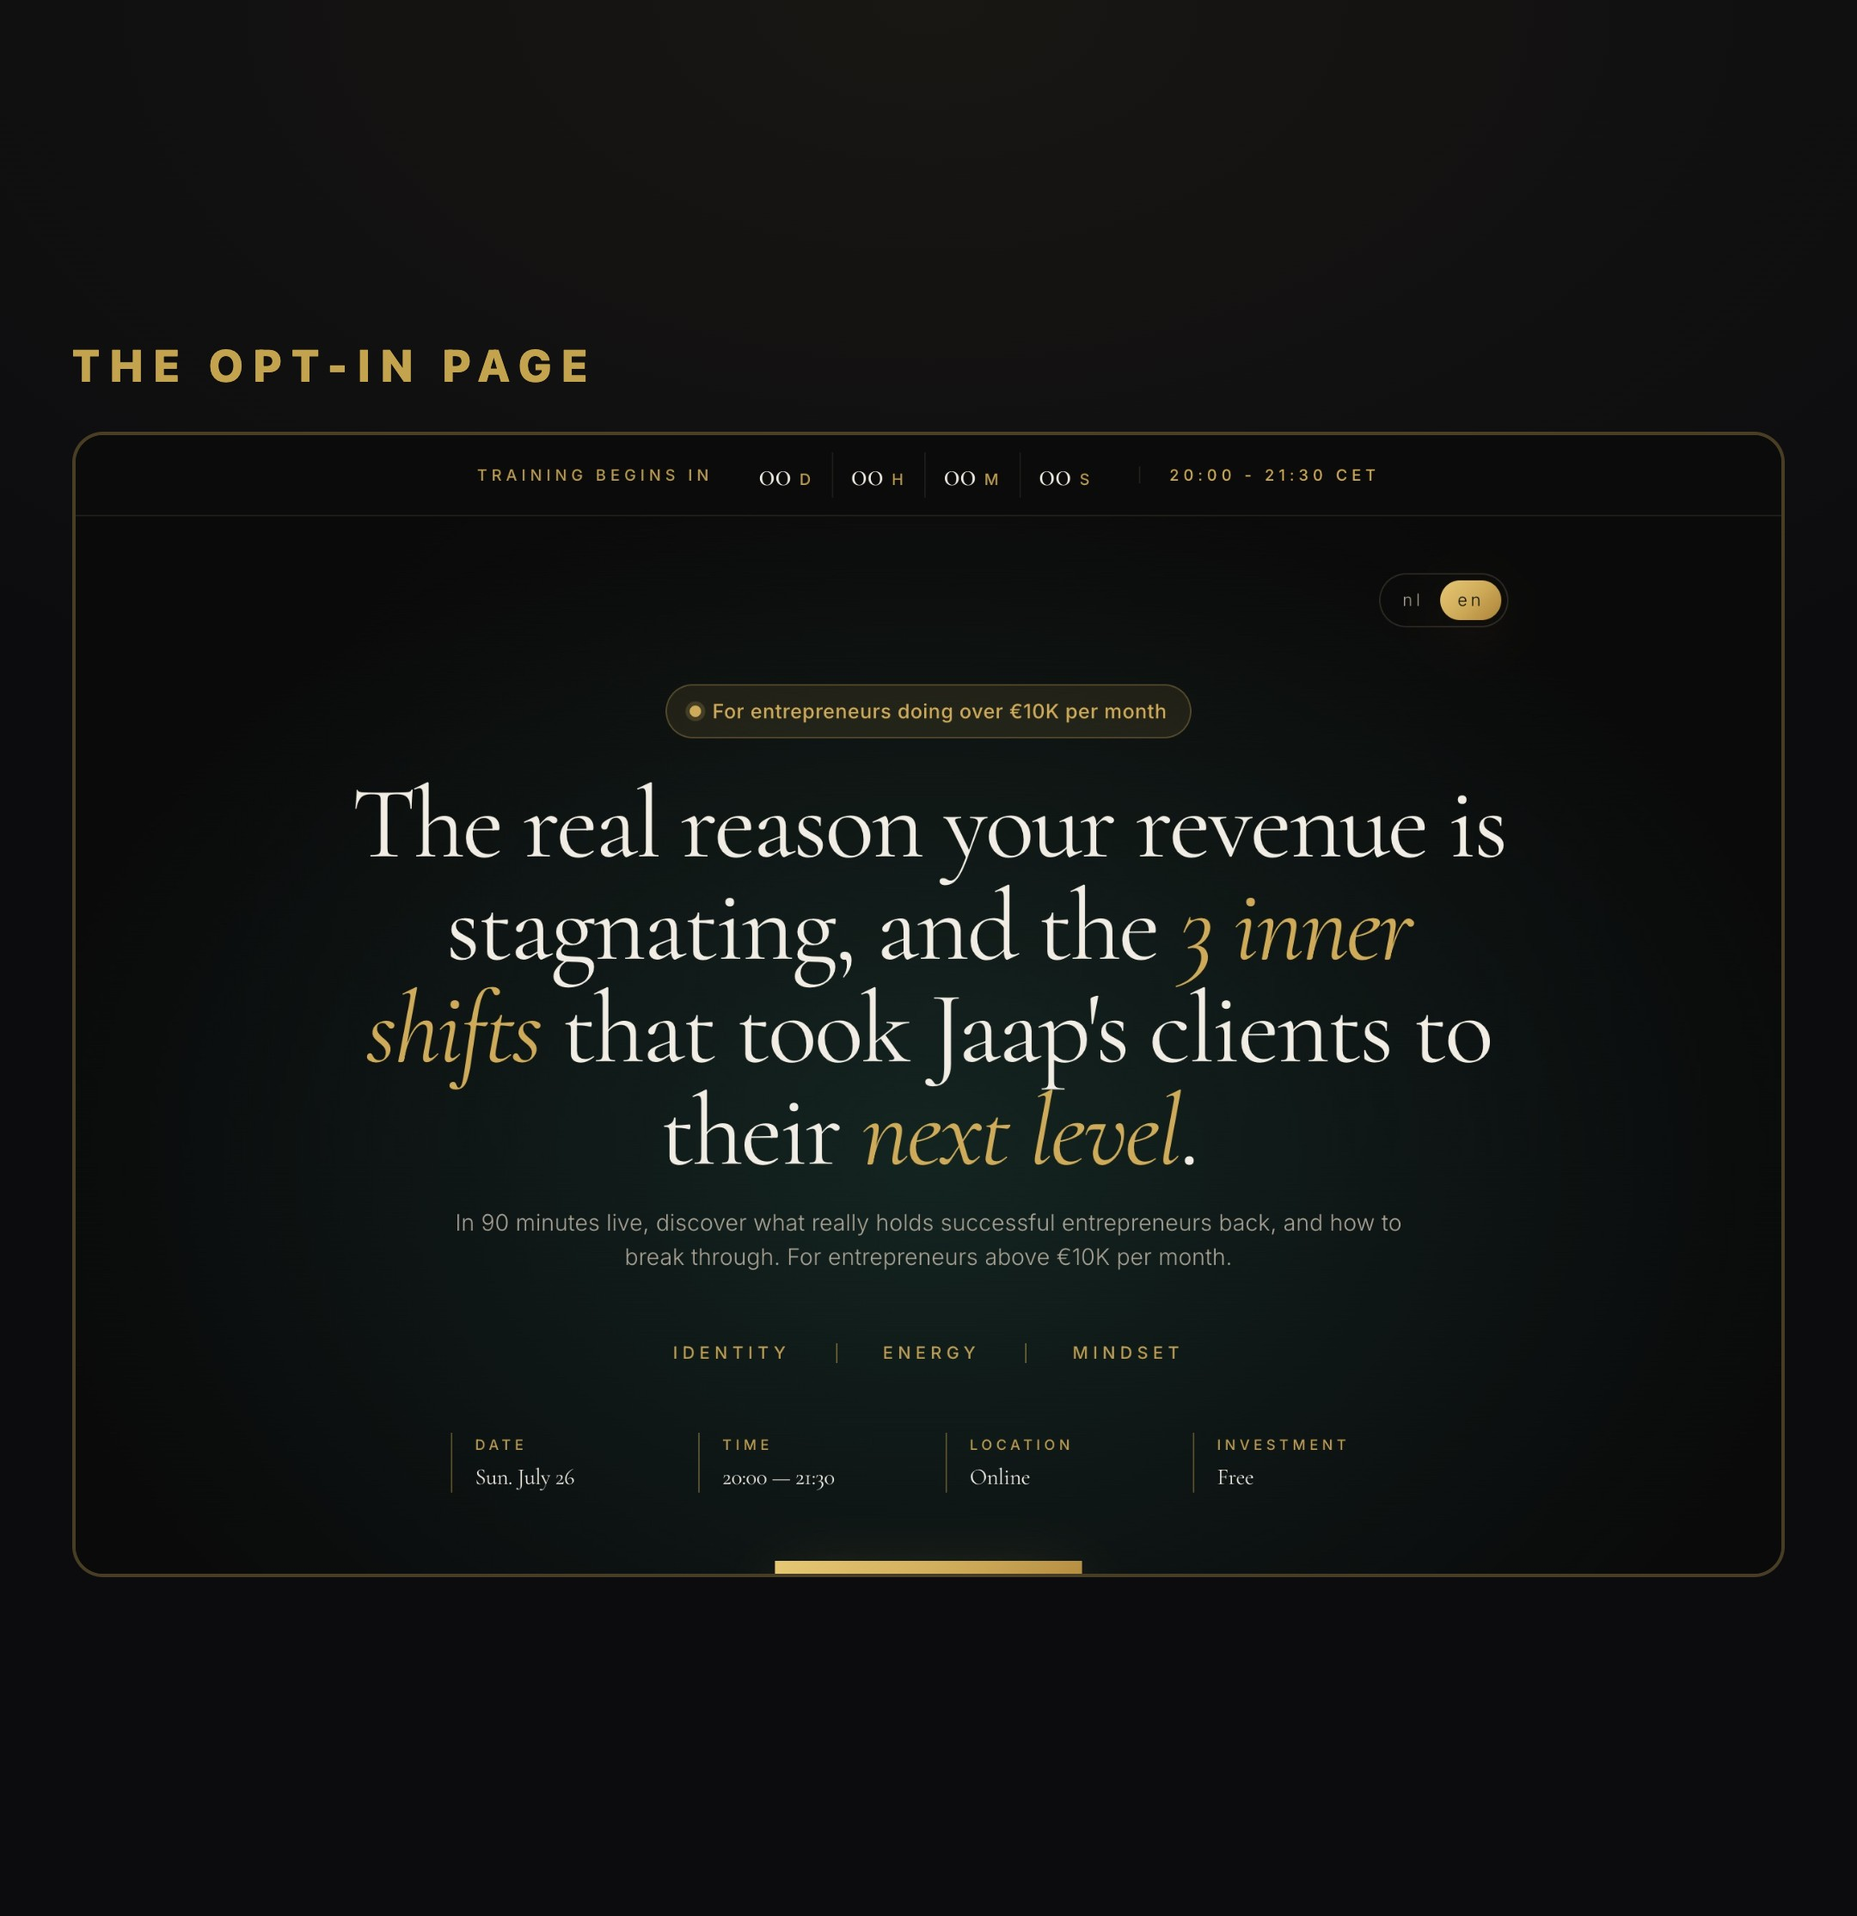
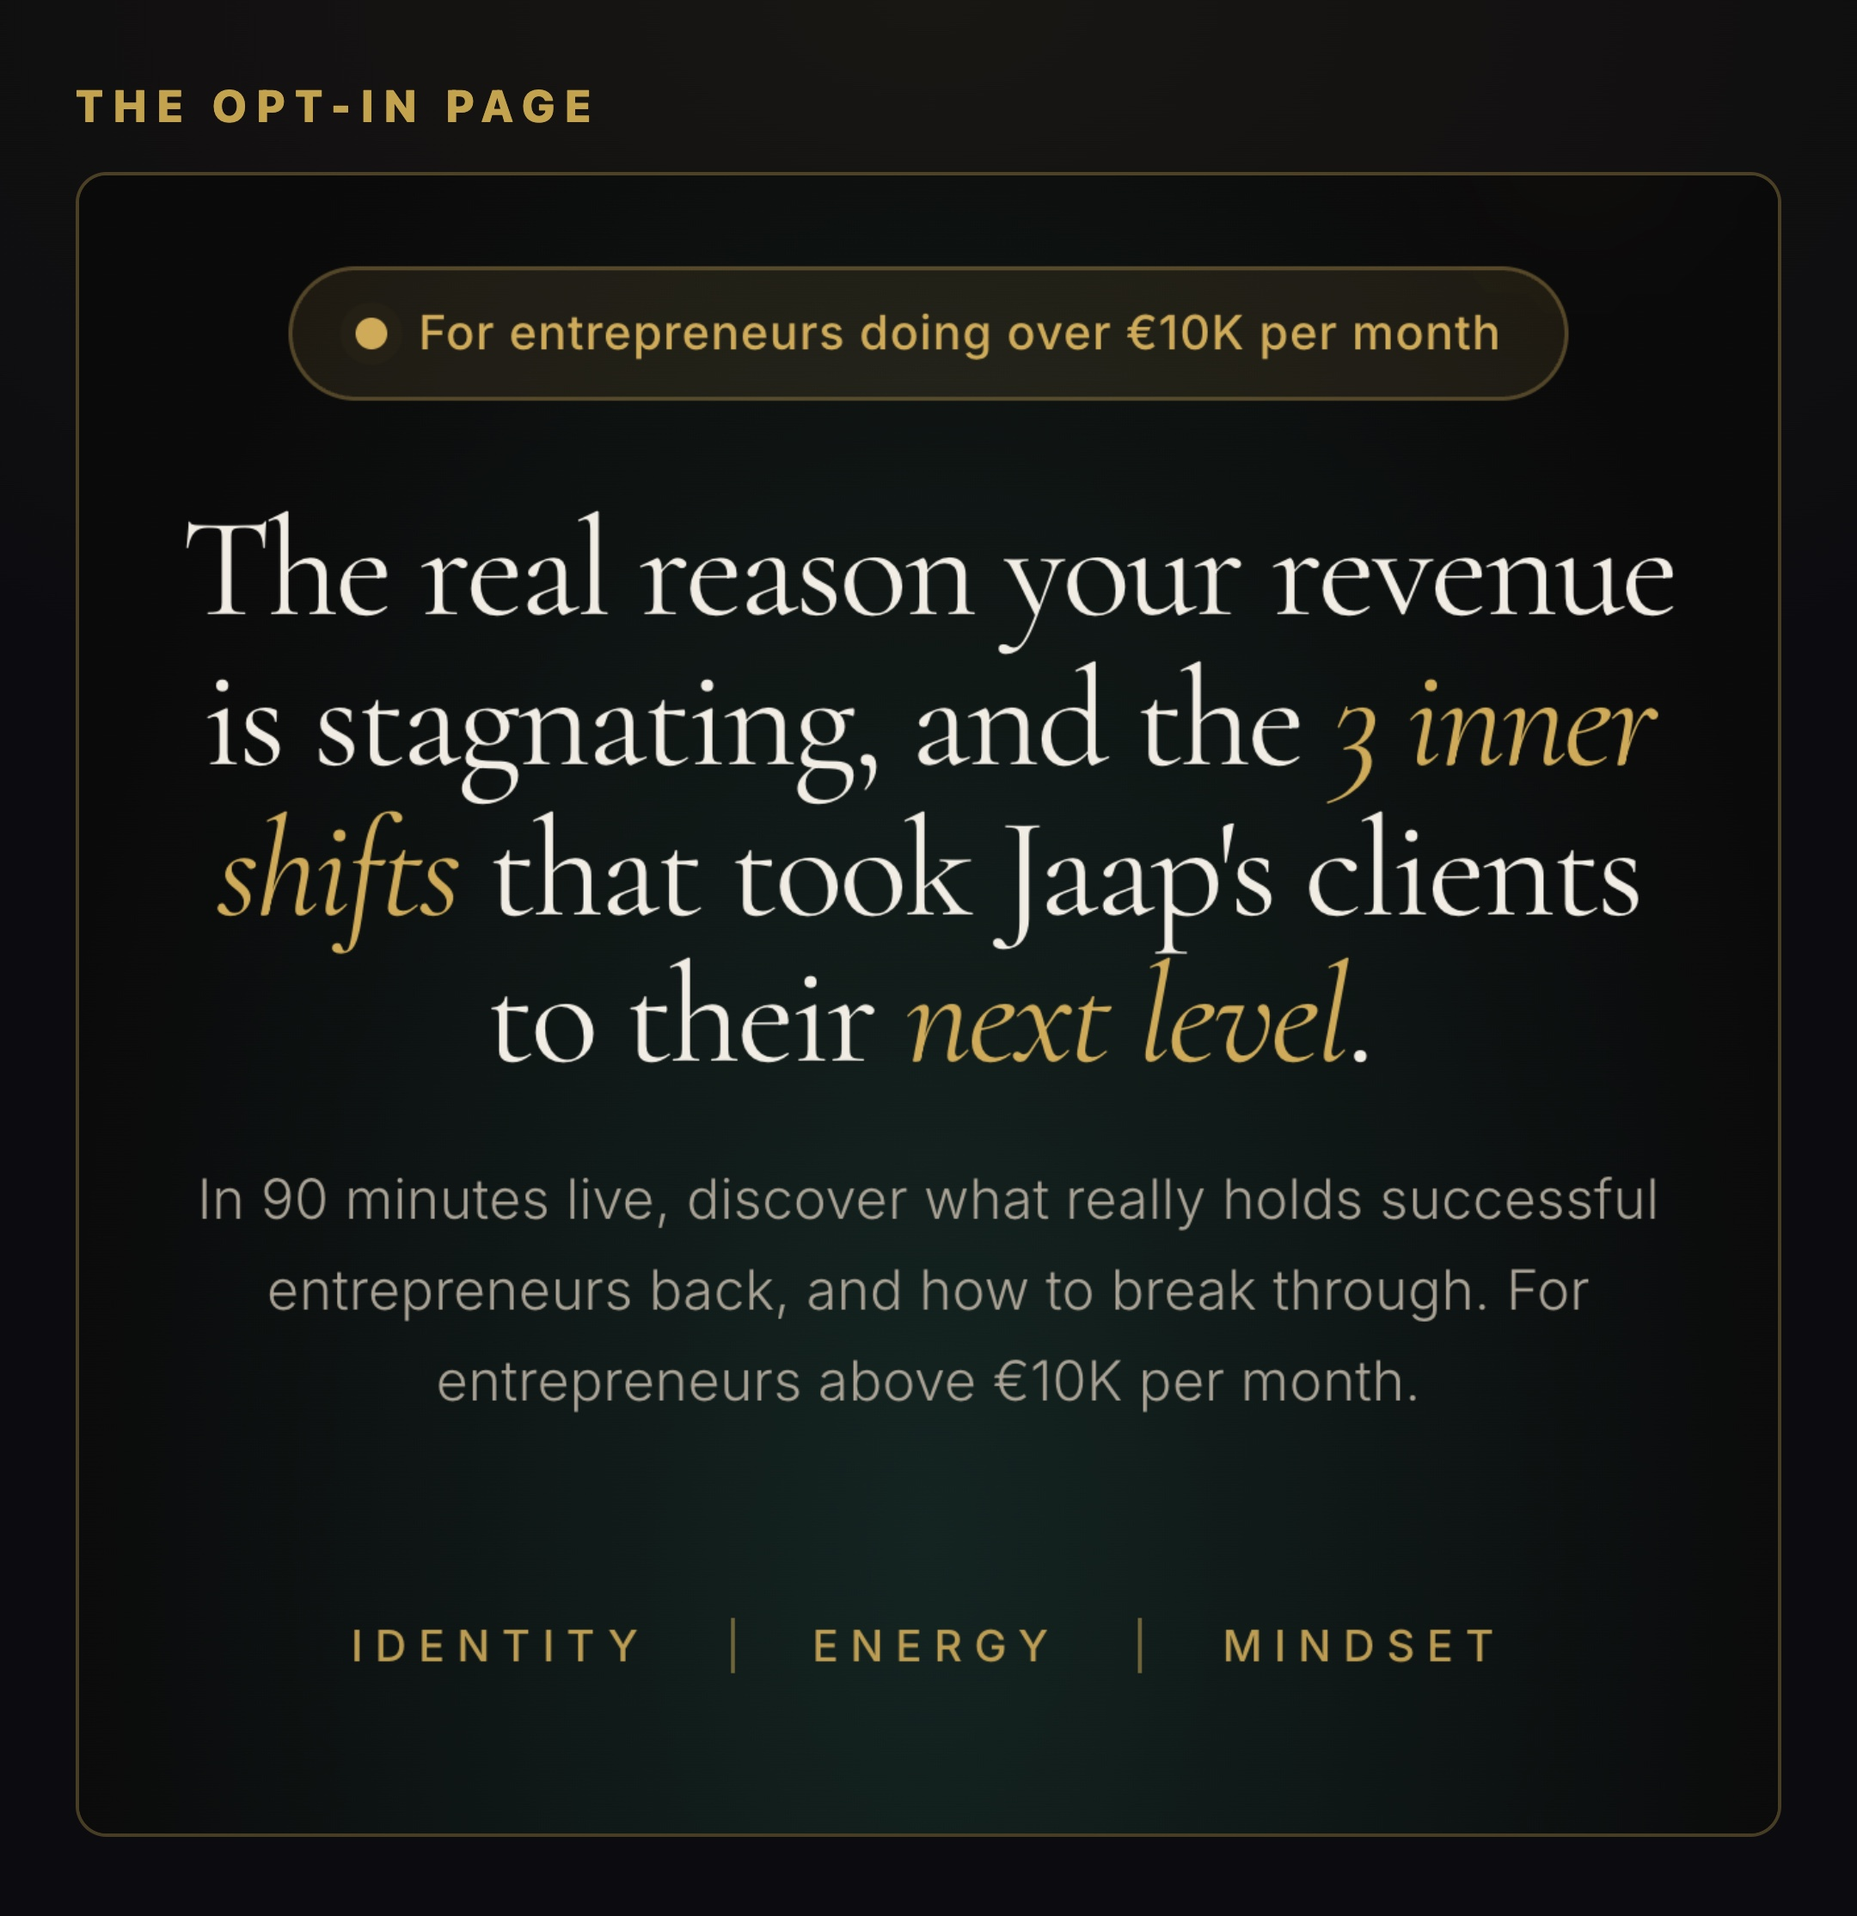
Whole funnel broken into one frame per part: real phone-width captures of every section, form step one, and all four thank-you steps

diff --git a/frames-funnel.html b/frames-funnel.html
@@ -33,6 +33,17 @@
 
   .shot{border-radius:18px;border:2px solid rgba(196,163,79,.32);overflow:hidden}
   .shot img{display:block;width:100%}
+  /* breakdown frames: dimmed full-page context with a gold locator box */
+  .ctx{position:relative;overflow:hidden;border-radius:14px;border:2px solid rgba(255,255,255,.14);margin:0 auto;background:#0a0a0c}
+  .ctx img{display:block;width:100%;opacity:.5}
+  .hl{position:absolute;border:3px solid var(--gold);border-radius:6px;background:rgba(196,163,79,.10)}
+  /* zoomed crop of a region: aspect-ratio + oversized img with negative margins */
+  .zoom{border-radius:16px;border:2px solid rgba(196,163,79,.45);overflow:hidden;background:#0a0a0c}
+  .zoom img{display:block}
+  .grid22{display:grid;grid-template-columns:1fr 1fr;gap:18px}
+  /* exact region crops out of the full 2400x1600 English hero */
+  .crop{border-radius:18px;border:2px solid rgba(196,163,79,.32);overflow:hidden;width:100%}
+  .crop img{display:block;width:100%;height:100%;object-fit:cover}
 
   ul.pts{list-style:none;display:flex;flex-direction:column;gap:22px;margin-top:10px}
   ul.pts li{font-size:37px;line-height:1.3;font-weight:600;padding-left:42px;position:relative}
@@ -80,6 +91,10 @@
   .stack.big .el .i{font-size:27px;width:48px;flex:0 0 48px}
   .stack.big .el .n{font-size:42px}
   .stack.big .el .n small{font-size:28px;margin-top:6px}
+  .fx{display:flex;flex-direction:column;align-items:flex-start;gap:7px;margin-top:14px}
+  .fx i{font-style:normal;font-size:27px;font-weight:800;color:var(--gold);
+    border:2px solid rgba(196,163,79,.5);background:rgba(196,163,79,.1);border-radius:10px;padding:9px 16px}
+  .fx b{font-size:22px;font-weight:800;color:rgba(255,255,255,.3);margin-left:16px}
   .steps3{display:flex;flex-direction:column;gap:16px;margin-top:12px}
   .s3{display:flex;gap:18px;align-items:flex-start;border:2px solid rgba(196,163,79,.32);border-radius:16px;
     padding:20px 24px;background:rgba(196,163,79,.06)}
@@ -159,87 +174,106 @@
   </div>
 </div>
 
-<!-- g3 · the real English opt-in page -->
-<div class="f" id="g3" style="padding:44px 42px">
+<!-- g3 · The opt-in page -->
+<div class="f" id="g3" style="padding:46px 44px">
   <div class="eb">The opt-in page</div>
-  <div class="shot"><img src="img/en-hero.jpg" alt=""></div>
+  <div class="shot"><img src="img/ob-hero.png" alt=""></div>
 </div>
 
-<!-- g4 · structure, the top of the page -->
-<div class="f" id="g4" style="padding:46px 46px">
-  <div class="eb">The structure · the top</div>
-  <div class="stack big">
-    <div class="el key"><span class="i">01</span><span class="n">Banner<small>countdown and the exact time, pinned to the top</small></span></div>
-    <div class="el key"><span class="i">02</span><span class="n">Eyebrow<small>the ICP call-out: "for entrepreneurs doing over €10K per month"</small></span></div>
-    <div class="el key"><span class="i">03</span><span class="n">Headline<small>the real reason they are stuck, plus the mechanism</small></span></div>
-  </div>
+<!-- b1 · 01 &middot; The banner -->
+<div class="f" id="b1" style="padding:46px 44px">
+  <div class="eb">01 &middot; The banner</div>
+  <div class="shot"><img src="img/ob-banner.png" alt=""></div>
 </div>
 
-<!-- g5 · structure, the body -->
-<div class="f" id="g5" style="padding:46px 46px">
-  <div class="eb">The structure · and then</div>
-  <div class="stack big">
-    <div class="el"><span class="i">04</span><span class="n">About me<small>why this person and not someone else</small></span></div>
-    <div class="el key"><span class="i">05</span><span class="n">What you will learn<small>the three pillars, named</small></span></div>
-    <div class="el"><span class="i">06</span><span class="n">Case studies<small>named founders, real numbers, on video</small></span></div>
-    <div class="el key"><span class="i">07</span><span class="n">The freebie<small>the reason to sign up today instead of later</small></span></div>
-  </div>
+<!-- b2 · 02 &middot; The eyebrow -->
+<div class="f" id="b2" style="padding:46px 44px">
+  <div class="eb">02 &middot; The eyebrow</div>
+  <div class="shot"><img src="img/ob-eyebrow.png" alt=""></div>
 </div>
 
-<!-- g6 · what you'll learn, real -->
-<div class="f" id="g6" style="padding:44px 42px">
-  <div class="eb">What you will learn</div>
-  <div class="shot"><img src="img/en-learn.jpg" alt=""></div>
+<!-- b3 · 03 &middot; The headline -->
+<div class="f" id="b3" style="padding:46px 44px">
+  <div class="eb">03 &middot; The headline</div>
+  <div class="shot"><img src="img/ob-headline.png" alt=""></div>
 </div>
 
-<!-- g7 · case studies, real -->
-<div class="f" id="g7" style="padding:44px 42px">
-  <div class="eb">Case studies</div>
-  <div class="shot"><img src="img/en-cases.jpg" alt=""></div>
+<!-- b4 · 04 &middot; About me -->
+<div class="f" id="b4" style="padding:46px 44px">
+  <div class="eb">04 &middot; About me</div>
+  <div class="shot"><img src="img/ob-about.png" alt=""></div>
 </div>
 
-<!-- g8 · the gift, real -->
-<div class="f" id="g8" style="padding:44px 42px">
-  <div class="eb">The gift for signing up</div>
-  <div class="shot"><img src="img/en-gift.jpg" alt=""></div>
+<!-- g6 · 05 &middot; What you will learn -->
+<div class="f" id="g6" style="padding:46px 44px">
+  <div class="eb">05 &middot; What you will learn</div>
+  <div class="shot"><img src="img/ob-learn.png" alt=""></div>
 </div>
 
-<!-- g9 · the real form -->
-<div class="f" id="g9" style="padding:40px 42px">
-  <div class="eb">Form, step one</div>
-  <div class="shot"><img src="img/en-form.jpg" alt=""></div>
+<!-- g7 · 06 &middot; Case studies -->
+<div class="f" id="g7" style="padding:46px 44px">
+  <div class="eb">06 &middot; Case studies</div>
+  <div class="shot"><img src="img/ob-cases.png" alt=""></div>
 </div>
 
-<!-- g10 · the qualifier -->
+<!-- g8 · 07 &middot; The freebie -->
+<div class="f" id="g8" style="padding:46px 44px">
+  <div class="eb">07 &middot; The freebie</div>
+  <div class="shot"><img src="img/ob-gift2.png" alt=""></div>
+</div>
+
+<!-- g9 · The form &middot; step one -->
+<div class="f" id="g9" style="padding:46px 44px">
+  <div class="eb">The form &middot; step one</div>
+  <div class="shot"><img src="img/ob-form.png" alt=""></div>
+</div>
+
+<!-- t1 · The thank-you page -->
+<div class="f" id="t1" style="padding:46px 44px">
+  <div class="eb">The thank-you page</div>
+  <div class="shot"><img src="img/ty-head.png" alt=""></div>
+</div>
+
+<!-- t2 · Thank-you &middot; step one -->
+<div class="f" id="t2" style="padding:46px 44px">
+  <div class="eb">Thank-you &middot; step one</div>
+  <div class="shot"><img src="img/ty-s1.png" alt=""></div>
+</div>
+
+<!-- t3 · Thank-you &middot; step two -->
+<div class="f" id="t3" style="padding:46px 44px">
+  <div class="eb">Thank-you &middot; step two</div>
+  <div class="shot"><img src="img/ty-s2.png" alt=""></div>
+</div>
+
+<!-- t4 · Thank-you &middot; step three -->
+<div class="f" id="t4" style="padding:46px 44px">
+  <div class="eb">Thank-you &middot; step three</div>
+  <div class="shot"><img src="img/ty-s3.png" alt=""></div>
+</div>
+
+<!-- t5 · Thank-you &middot; step four -->
+<div class="f" id="t5" style="padding:46px 44px">
+  <div class="eb">Thank-you &middot; step four</div>
+  <div class="shot"><img src="img/ty-s4.png" alt=""></div>
+</div>
+
+<!-- g10 · the qualifier (reproduction, not a capture) -->
 <div class="f" id="g10" style="padding:44px 44px">
-  <div class="eb">Form, step two · after they are registered</div>
+  <div class="eb">The form &middot; step two</div>
   <div class="mockbig">
     <div class="mt">One <i>last</i> question</div>
     <div class="ms">What's your current monthly revenue? (5 seconds)</div>
     <div class="opts2">
       <div class="o">No business yet</div>
-      <div class="o">Under €10K per month</div>
-      <div class="o q">€10K to €50K per month</div>
-      <div class="o q">€50K to €200K per month</div>
-      <div class="o q">€200K+ per month</div>
+      <div class="o">Under &euro;10K per month</div>
+      <div class="o q">&euro;10K to &euro;50K per month</div>
+      <div class="o q">&euro;50K to &euro;200K per month</div>
+      <div class="o q">&euro;200K+ per month</div>
     </div>
   </div>
-  <div class="sub" style="font-size:30px;margin-top:18px">Gate the registration on this and <b style="color:var(--gold-soft)">you lose half of them.</b></div>
 </div>
 
-<!-- g11 · thank-you page -->
-<div class="f" id="g11" style="padding:44px 46px">
-  <div class="eb">The thank-you page</div>
-  <div class="vid"><div class="p">&#9654;</div></div>
-  <div class="sub" style="font-size:26px;margin-top:12px;margin-bottom:4px">A short video, then three next steps.</div>
-  <div class="steps3">
-    <div class="s3"><span class="num">1</span><span class="tx">Join the WhatsApp<small>the freebie and the exclusive content live in there</small></span></div>
-    <div class="s3"><span class="num">2</span><span class="tx">Add it to your calendar</span></div>
-    <div class="s3"><span class="num">3</span><span class="tx">Check for the confirmation email</span></div>
-  </div>
-</div>
-
-<!-- g12 · analytics -->
 <div class="f" id="g12" style="padding:46px 44px">
   <div class="eb">And everything lands here</div>
   <div class="shot"><img src="img/s-chain.jpg" alt=""></div>

diff --git a/index.html b/index.html
@@ -107,17 +107,23 @@
       beats: [
         {img:'img/g1.jpg', s:"Five thousand seven hundred in ads came back as a hundred grand. Nine days, one webinar, seventeen and a half times return. Here's the exact webinar funnel."},
         {img:'img/g2.jpg', s:"Four opt-in pages A/B tested, feeding one two-step form. That splits into two thank-you pages, and it all lands on one custom analytics page."},
-        {img:'img/g3.jpg', s:"This is the opt-in page. Every one of those ads pointed here."},
-        {img:'img/g4.jpg', s:"The top of the page is three things. A banner with the countdown. An eyebrow calling out the ICP, for entrepreneurs over ten grand a month. Then the headline."},
-        {img:'img/g5.jpg', s:"Then, in this order. About me. What you'll learn. Case studies. The freebie. Every page we build follows that order."},
-        {img:'img/g6.jpg', s:"What you'll learn is the mechanism, named. Three pillars, so it has a shape they can hold."},
-        {img:'img/g7.jpg', s:"Case studies are named founders with real numbers, on video. Not a wall of anonymous screenshots."},
-        {img:'img/g8.jpg', s:"And the gift for signing up. That's the reason to register today instead of thinking about it."},
-        {img:'img/g9.jpg', s:"Form step one. Name, email, phone. The moment it submits they're registered, and nothing after it can cost you the lead."},
-        {img:'img/g10.jpg', s:"Step two is one question, after they're already registered. Put it in front of the registration instead and you lose about half of them."},
-        {img:'img/g11.jpg', s:"Thank-you page is a short video and three steps. Join the WhatsApp, that's where the gift and exclusive content live. Add to calendar. Check for the confirmation email."},
+                {img:'img/g3.jpg', s:"This is the opt-in page. Seven parts, always in this order."},
+        {img:'img/b1.jpg', s:"One. The banner. Countdown and the exact time, pinned to the top."},
+        {img:'img/b2.jpg', s:"Two. The eyebrow. It names who this is for before they read anything else."},
+        {img:'img/b3.jpg', s:"Three. The headline. Dream outcome, the mechanism, without the thing they dread."},
+        {img:'img/b4.jpg', s:"Four. About me. Why him and not anyone else."},
+        {img:'img/g6.jpg', s:"Five. What you'll learn. The mechanism, named. Three pillars."},
+        {img:'img/g7.jpg', s:"Six. Case studies. Founders, real numbers, on video."},
+        {img:'img/g8.jpg', s:"Seven. The freebie. It gets them to opt in, then keeps them warm until the day."},
+        {img:'img/g9.jpg', s:"Then the form. Step one is name, email, phone. That's the registration done."},
+        {img:'img/g10.jpg', s:"Step two is one question, after they're already registered. Ask it first and you lose about half of them."},
+        {img:'img/t1.jpg', s:"Thank-you page. Confirmed, in plain words, at the top."},
+        {img:'img/t2.jpg', s:"Step one, a welcome video. He's in the room before the room opens."},
+        {img:'img/t3.jpg', s:"Step two, join the WhatsApp. That's where the gift and the reminders live."},
+        {img:'img/t4.jpg', s:"Step three, add it to the calendar."},
+        {img:'img/t5.jpg', s:"Step four, check the confirmation email."},
         {img:'img/g12.jpg', s:"And every one of those pages reports into here."},
-        {img:'img/g13.jpg', s:"Three things. Opt-in rate per variant. Cost per qualified opt-in, not cost per lead. And which ads bring the people who answered ten grand plus."},
+        {img:'img/g13.jpg', s:"Three things. Opt-in rate per variant. Cost per qualified opt-in, not cost per lead. And which ads bring the ten-grand-plus people."},
         {img:'img/g14.jpg', s:"Comment FUNNEL and I'll send you our opt-in form SOPs."}
       ]
     },
